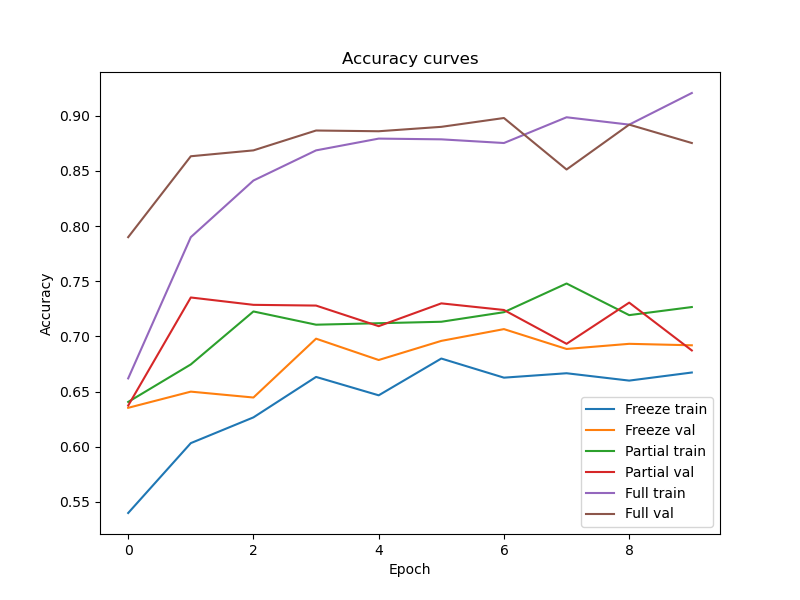
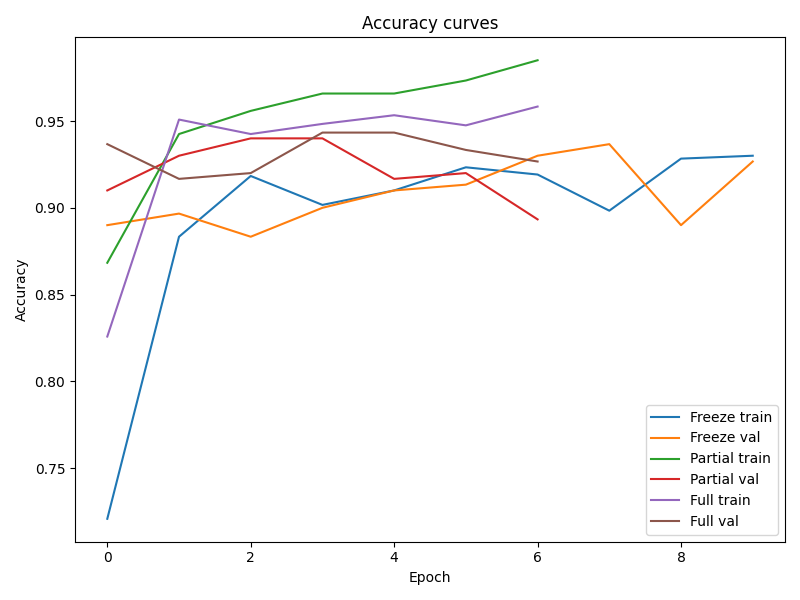
[upd]: train/val + table

diff --git a/main.py b/main.py
@@ -1,65 +1,88 @@
-# main_train.py
+
 import os
+import time
 from multiprocessing import freeze_support
 
-if __name__ == "__main__":
-    freeze_support()  # для Windows, безопасно и на macOS
+import torch
+import matplotlib.pyplot as plt
 
-    # main_train.py
-    import torch
-    from torch.utils.data import DataLoader
-    import matplotlib.pyplot as plt
-    import seaborn as sns
-    from utils.config import load_config
-    from utils.seed import set_seed
-    from data.loader import build_dataloaders
-    from src.models.model_loader import (
-        load_mobilenet_v2,
-        apply_full_freeze,
-        apply_partial_unfreeze_mobilenetv2,
-        apply_full_finetune,
-        count_params_millions
-    )
-    from src.training.train import Trainer
-    import os
-    
-    # --------------------------
-    # Конфигурация
-    # --------------------------
-    config_path = "configs/freeze.yaml"  # можно заменить на любой из freeze/partial/full
+from src.utils.config import load_config
+from src.utils.seed import set_seed
+from data.loader import build_dataloaders
+from src.models.model_loader import (
+    load_mobilenet_v2,
+    apply_full_freeze,
+    apply_partial_unfreeze_mobilenetv2,
+    apply_full_finetune,
+    count_params_millions
+)
+from src.training.train import Trainer
+
+
+if __name__ == "__main__":
+    freeze_support() 
+
+    # ==========================
+    # CONFIG
+    # ==========================
+    config_path = "configs/partial.yaml"  # freeze / partial / full
     cfg = load_config(config_path)
+
     set_seed(cfg.get("seed", 42))
     device = "cuda" if torch.cuda.is_available() else "cpu"
-    
-    # --------------------------
-    # Датасеты и DataLoader
-    # --------------------------
+
+    print("=== START TRAINING PIPELINE ===")
+    print(f"Config file: {config_path}")
+    print(f"Device: {device}")
+
+    # ==========================
+    # DATA
+    # ==========================
+    print("\n=== LOADING DATA ===")
     train_loader, val_loader = build_dataloaders(cfg)
-    
-    # --------------------------
-    # Модели
-    # --------------------------
+
+    print(f"Train batches: {len(train_loader)}")
+    print(f"Val batches:   {len(val_loader)}")
+
+    x, y = next(iter(train_loader))
+    print(f"Sample batch shape: {x.shape}, labels shape: {y.shape}")
+
+    # ==========================
+    # MODELS
+    # ==========================
+    print("\n=== BUILDING MODELS ===")
     num_classes = len(cfg["data"]["classes"])
-    
-    # создаём отдельные экземпляры модели для каждого режима
+
     models_dict = {
-        "Freeze": apply_full_freeze(load_mobilenet_v2(num_classes=num_classes, pretrained=True)),
-        "Partial": apply_partial_unfreeze_mobilenetv2(load_mobilenet_v2(num_classes=num_classes, pretrained=True), unfreeze_last_n=2),
-        "Full": apply_full_finetune(load_mobilenet_v2(num_classes=num_classes, pretrained=True))
+        "Freeze": apply_full_freeze(
+            load_mobilenet_v2(num_classes=num_classes, pretrained=True)
+        ),
+        "Partial": apply_partial_unfreeze_mobilenetv2(
+            load_mobilenet_v2(num_classes=num_classes, pretrained=True),
+            unfreeze_last_n=cfg["training"].get("unfreeze_layers", 2)
+        ),
+        "Full": apply_full_finetune(
+            load_mobilenet_v2(num_classes=num_classes, pretrained=True)
+        )
     }
-    
-    # вывод параметров
+
     for name, model in models_dict.items():
         trainable_params = sum(p.numel() for p in model.parameters() if p.requires_grad)
         total_params = count_params_millions(model)
-        print(f"{name}: trainable params = {trainable_params} / total params = {total_params:.2f}M")
-    
-    # --------------------------
-    # Тренировка
-    # --------------------------
+        print(f"{name}: trainable = {trainable_params}, total = {total_params:.2f}M")
+
+    print("=== MODELS READY ===")
+
+    # ==========================
+    # TRAINING
+    # ==========================
     histories = {}
+
     for name, model in models_dict.items():
-        print(f"\n=== Training {name} model ===")
+        print(f"\n=== TRAINING {name.upper()} MODEL ===")
+        print(f"LR: {cfg['training']['lr']}")
+        print(f"Epochs: {cfg['training']['epochs']}")
+
         trainer = Trainer(
             model=model,
             device=device,
@@ -68,16 +91,33 @@ if __name__ == "__main__":
             train_loader=train_loader,
             val_loader=val_loader
         )
+
+        start_time = time.time()
         history = trainer.fit()
-        histories[name] = history
-    
-    # --------------------------
-    # Построение графиков
-    # --------------------------
+        total_time = time.time() - start_time
+
+        print(f"=== FINISHED {name.upper()} ===")
+        print(f"Total time: {total_time:.2f} sec")
+        print(f"Avg time / epoch: {total_time / len(history['train_loss']):.2f} sec")
+        print(
+            f"Best Val Acc: {max(history['val_acc']):.4f} | "
+            f"Final Train Acc: {history['train_acc'][-1]:.4f}"
+        )
+
+        histories[name] = {
+            **history,
+            "time": total_time,
+            "epochs": len(history["train_loss"])
+        }
+
+    # ==========================
+    # PLOTS
+    # ==========================
+    print("\n=== PLOTTING RESULTS ===")
     os.makedirs("outputs/plots", exist_ok=True)
-    
-    # Loss
-    plt.figure(figsize=(8,6))
+
+    # Loss curves
+    plt.figure(figsize=(8, 6))
     for name, history in histories.items():
         plt.plot(history["train_loss"], label=f"{name} train")
         plt.plot(history["val_loss"], label=f"{name} val")
@@ -85,11 +125,12 @@ if __name__ == "__main__":
     plt.xlabel("Epoch")
     plt.ylabel("Loss")
     plt.legend()
+    plt.tight_layout()
     plt.savefig("outputs/plots/loss_curves.png")
     plt.close()
-    
-    # Accuracy
-    plt.figure(figsize=(8,6))
+
+    # Accuracy curves
+    plt.figure(figsize=(8, 6))
     for name, history in histories.items():
         plt.plot(history["train_acc"], label=f"{name} train")
         plt.plot(history["val_acc"], label=f"{name} val")
@@ -97,8 +138,9 @@ if __name__ == "__main__":
     plt.xlabel("Epoch")
     plt.ylabel("Accuracy")
     plt.legend()
+    plt.tight_layout()
     plt.savefig("outputs/plots/accuracy_curves.png")
     plt.close()
-    
-    print("Training done. Plots saved to outputs/plots/")
-    
+
+    print("Training finished.")
+    print("Plots saved to outputs/plots/")

diff --git a/data/loader.py b/data/loader.py
@@ -1,6 +1,8 @@
 import torch
 from torch.utils.data import DataLoader, Subset
 from torchvision import datasets, transforms
+from torch.utils.data import random_split
+
 
 def select_classes(dataset, class_ids, max_per_class=None):
     idxs = []
@@ -14,26 +16,32 @@ def select_classes(dataset, class_ids, max_per_class=None):
 def build_dataloaders(cfg):
     data_cfg = cfg["data"]
 
-    img_size = data_cfg.get("img_size", 32)
-    batch_size = data_cfg.get("batch_size", 64)
+    # img_size = data_cfg.get("img_size", 32)
+    # batch_size = data_cfg.get("batch_size", 64)
 
-    # transforms
-    train_tfms = transforms.Compose([
-        transforms.RandomCrop(img_size, padding=4),
+
+    IMAGENET_MEAN = [0.485, 0.456, 0.406]
+    IMAGENET_STD  = [0.229, 0.224, 0.225]
+
+    train_transform = transforms.Compose([
+        transforms.Resize(224),
         transforms.RandomHorizontalFlip(),
         transforms.ToTensor(),
+        transforms.Normalize(IMAGENET_MEAN, IMAGENET_STD),
     ])
 
-    test_tfms = transforms.Compose([
+    test_transform = transforms.Compose([
+        transforms.Resize(224),
         transforms.ToTensor(),
+        transforms.Normalize(IMAGENET_MEAN, IMAGENET_STD),
     ])
 
     if data_cfg["type"] == "cifar10":
-        train_base = datasets.CIFAR10(root="./data", train=True, download=True, transform=train_tfms)
-        test_base = datasets.CIFAR10(root="./data", train=False, download=True, transform=test_tfms)
+        train_base = datasets.CIFAR10(root="./data", train=True, download=True, transform=train_transform)
+        test_base = datasets.CIFAR10(root="./data", train=False, download=True, transform=test_transform)
     elif data_cfg["type"] == "mnist":
-        train_base = datasets.MNIST(root="./data", train=True, download=True, transform=train_tfms)
-        test_base = datasets.MNIST(root="./data", train=False, download=True, transform=test_tfms)
+        train_base = datasets.MNIST(root="./data", train=True, download=True, transform=train_transform)
+        test_base = datasets.MNIST(root="./data", train=False, download=True, transform=test_transform)
     else:
         raise ValueError(f"Unknown dataset: {data_cfg['type']}")
 
@@ -41,10 +49,43 @@ def build_dataloaders(cfg):
     classes = data_cfg["classes"]
     max_per_class = data_cfg.get("max_per_class", None)
 
-    train_ds = select_classes(train_base, classes, max_per_class)
-    test_ds  = select_classes(test_base, classes, max_per_class)
+    # train_ds = select_classes(train_base, classes, max_per_class)
+    # test_ds  = select_classes(test_base, classes, max_per_class)
 
-    train_loader = DataLoader(train_ds, batch_size=batch_size, shuffle=True, num_workers=2)
-    test_loader  = DataLoader(test_ds, batch_size=batch_size, shuffle=False, num_workers=2)
+    # train_loader = DataLoader(train_ds, batch_size=batch_size, shuffle=True, num_workers=0)
+    # test_loader  = DataLoader(test_ds, batch_size=batch_size, shuffle=False, num_workers=0)
 
-    return train_loader, test_loader
+    full_train = select_classes(
+    train_base,
+    class_ids=data_cfg["classes"],
+    max_per_class=data_cfg.get("max_per_class")
+)
+
+    val_ratio = data_cfg.get("val_ratio", 0.2)
+
+    val_size = int(len(full_train) * val_ratio)
+    train_size = len(full_train) - val_size
+
+    train_ds, val_ds = random_split(
+        full_train,
+        [train_size, val_size],
+        generator=torch.Generator().manual_seed(cfg.get("seed", 42))
+    )
+
+    train_loader = DataLoader(
+        train_ds,
+        batch_size=data_cfg["batch_size"],
+        shuffle=True,
+        num_workers=data_cfg.get("num_workers", 2)
+    )
+
+    val_loader = DataLoader(
+        val_ds,
+        batch_size=data_cfg["batch_size"],
+        shuffle=False,
+        num_workers=data_cfg.get("num_workers", 2)
+    )
+
+    return train_loader, val_loader
+
+

diff --git a/src/training/train.py b/src/training/train.py
@@ -2,6 +2,22 @@ import torch
 import torch.nn as nn
 from torch.utils.data import DataLoader
 
+class EarlyStopping:
+    def __init__(self, patience=3):
+        self.patience = patience
+        self.best_loss = float("inf")
+        self.counter = 0
+        self.stop = False
+
+    def step(self, val_loss):
+        if val_loss < self.best_loss:
+            self.best_loss = val_loss
+            self.counter = 0
+        else:
+            self.counter += 1
+            if self.counter >= self.patience:
+                self.stop = True
+
 
 class Trainer:
     def __init__(self, model, device, lr, epochs, train_loader, val_loader=None):
@@ -17,6 +33,8 @@ class Trainer:
             lr=lr
         )
         self.criterion = nn.CrossEntropyLoss()
+
+    
 
     def train_epoch(self):
         self.model.train()
@@ -74,17 +92,29 @@ class Trainer:
             "val_acc": []
         }
 
+        early_stopping = EarlyStopping(patience=3)
+
+
         for epoch in range(self.epochs):
             train_loss, train_acc = self.train_epoch()
             val_loss, val_acc = self.validate_epoch()
 
+            early_stopping.step(val_loss)
+
+        
             history["train_loss"].append(train_loss)
             history["train_acc"].append(train_acc)
             history["val_loss"].append(val_loss)
             history["val_acc"].append(val_acc)
 
+
             print(f"Epoch {epoch+1}/{self.epochs} | "
                   f"Train Loss: {train_loss:.4f} | Acc: {train_acc:.4f} | "
                   f"Val Loss: {val_loss:.4f} | Val Acc: {val_acc:.4f}")
+            
+            if early_stopping.stop:
+                print("Early stopping triggered")
+                break
 
         return history
+    

diff --git a/outputs/table.py b/outputs/table.py
@@ -1,0 +1,8 @@
+'''
+| Mode    | Best Val Accuracy | Train Accuracy | Overfitting | Time (sec) | Avg Time / Epoch (sec) | Epochs |
+|---------|-------------------|----------------|-------------|------------|------------------------|--------|
+| Freeze  | 0.937             | 0.930          | -0.007      | 684.4      | 68.4                   | 10     |
+| Partial | 0.940             | 0.966          | 0.026       | 498.8      | 71.3                   | 7      |
+| Full    | 0.943             | 0.948          | 0.005       | —          | —                      | 7      |
+
+'''
